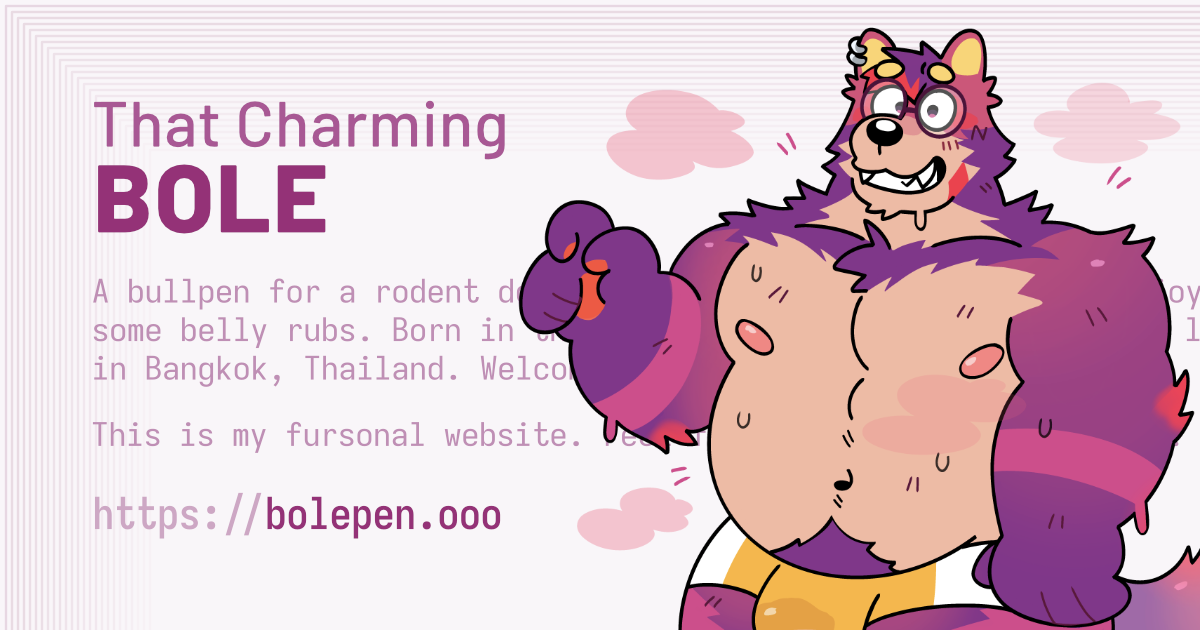
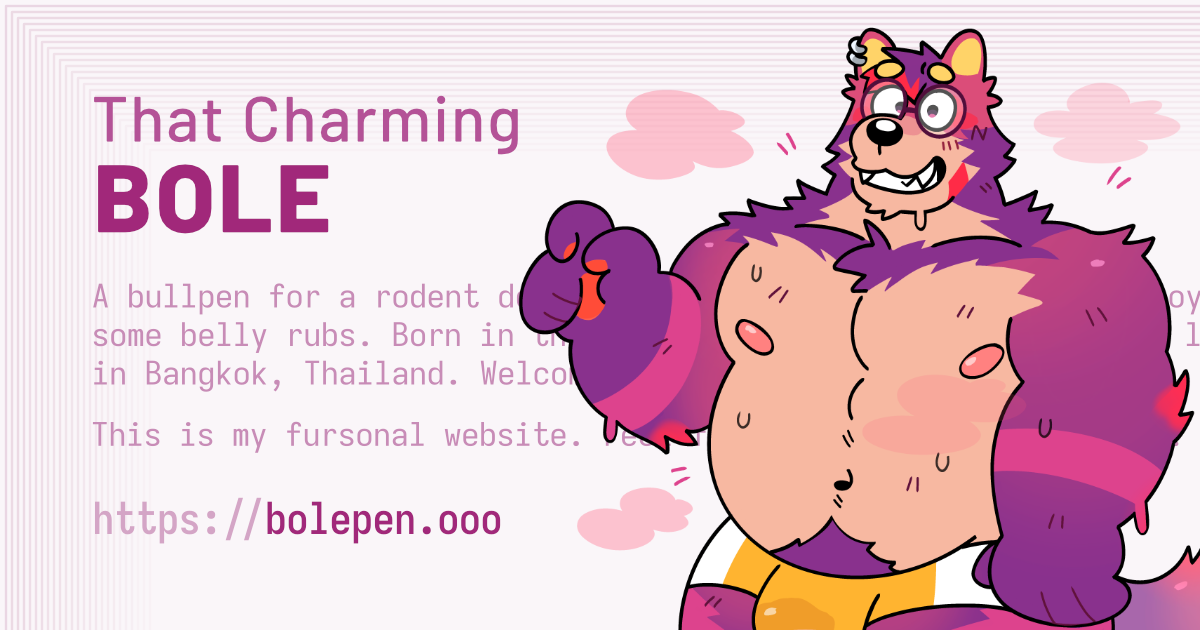
Update open graph image & website title

diff --git a/src/config.ts b/src/config.ts
@@ -3,7 +3,7 @@ import ogImage from "#src/images/og-image.png?url";
 
 export const SITE = {
   author: "That Charming BOLE",
-  title: "In The Bolepen: where you find That Charming BOLE",
+  title: "In the Bolepen: Habitat of That Charming BOLE",
   description:
     "Welcome to the home base of That Charming BOLE, your friendly free-spirited doggo. I love belly rubs, making new friends, and sharing my adventures. Come on in and have a look around! Why wait? I don’t bite!",
   url: "https://bolepen.ooo",
